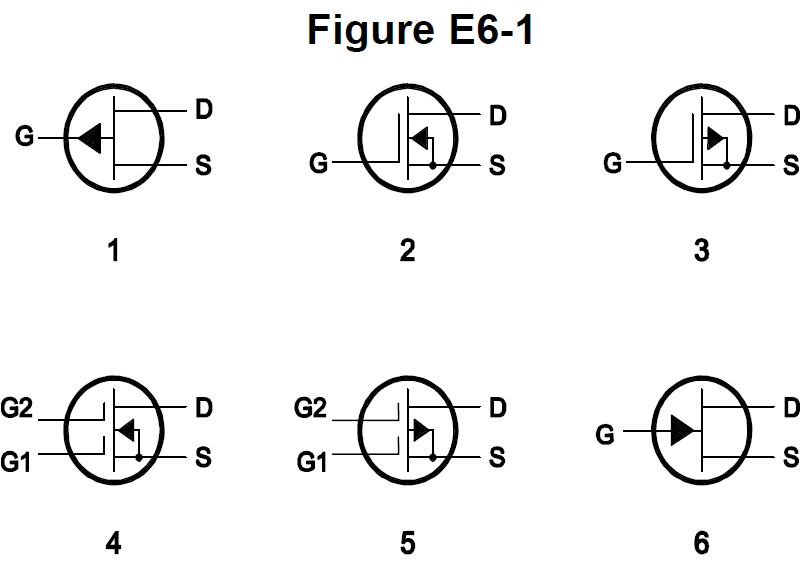
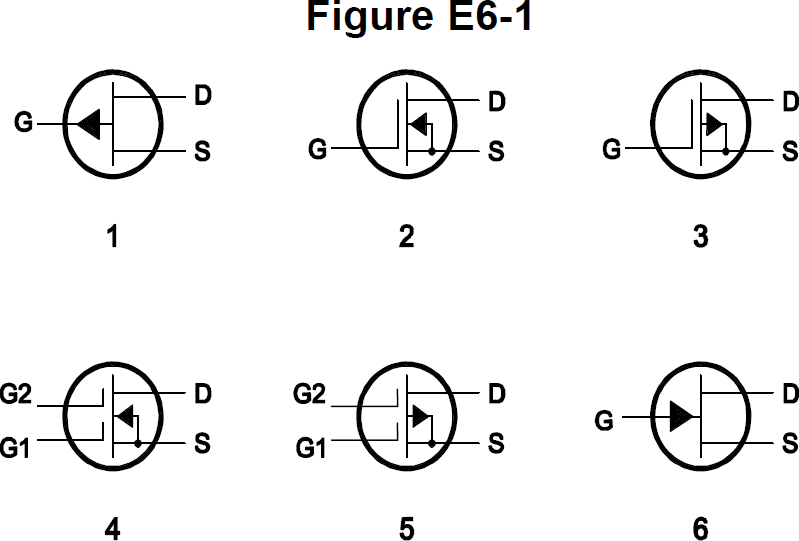
Trimmed the figure images; tweaked the CSS to create a margin, and unfloat the figures; generified a function; bumped version.

diff --git a/public/stylesheets/main.css b/public/stylesheets/main.css
@@ -4,7 +4,10 @@
 }
 
 .figure {
-    float: right;
+    margin-top: 1em;
+    margin-bottom: 2em;
+    margin-left: 1em;
+    margin-right: 1em;
 }
 
 .title {
